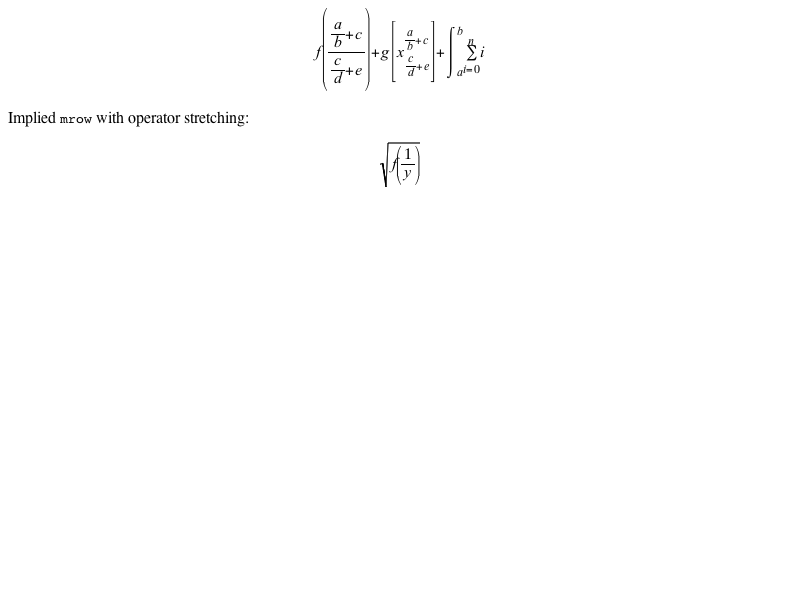
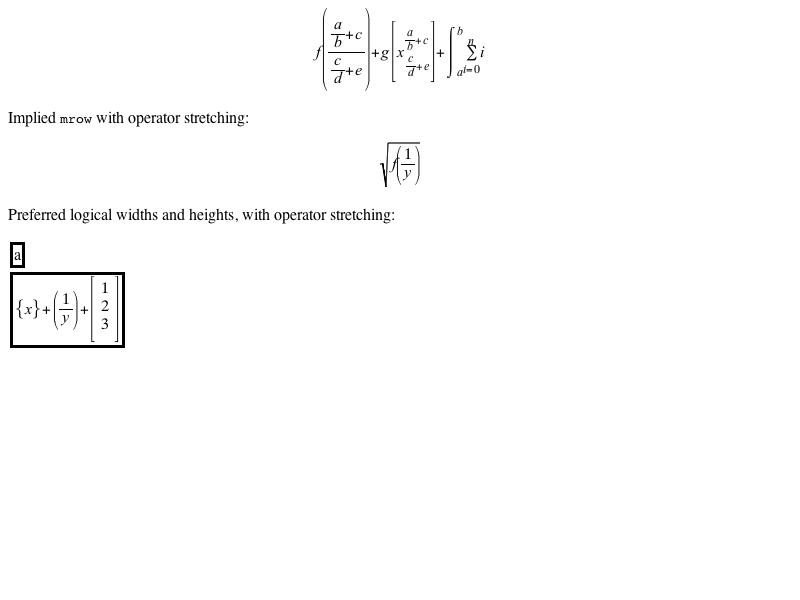
After appending MathML with jquery the table renders with overlaps https://bugs.webkit.org/show_bug.cgi?id=52444
Patch by David Barton <dbarton@mathscribe.com> on 2012-05-02
Reviewed by Julien Chaffraix.

Source/WebCore:

This patch also fixes bugs 72834 and 47781. The main problem is that correct preferred
logical widths are affected by operator stretching. Thus we add a call to
setNeedsLayoutAndPrefWidthsRecalc() after the stretching code in
RenderMathMLOperator.cpp, and change RenderMathMLBlock and RenderMathMLRow to make sure
that stretching of children is done before an <mrow>'s preferred logical widths are
computed.

Test: Added a test to mathml/presentation/mo-stretch.html

* rendering/mathml/RenderMathMLBlock.cpp:
(WebCore::RenderMathMLBlock::RenderMathMLBlock):
(WebCore::RenderMathMLBlock::computePreferredLogicalWidths):
(WebCore::RenderMathMLBlock::computeChildrenPreferredLogicalHeights):
(WebCore::RenderMathMLBlock::preferredLogicalHeightAfterSizing):
* rendering/mathml/RenderMathMLBlock.h:
(WebCore::RenderMathMLBlock::unembellishedOperator):
(WebCore::RenderMathMLBlock::isPreferredLogicalHeightDirty):
(WebCore::RenderMathMLBlock::preferredLogicalHeight):
(WebCore::RenderMathMLBlock::setPreferredLogicalHeight):
    - Add m_preferredLogicalHeight and methods to compute and return it.
    - Remove stretchToHeight() from most classes as it no longer needs to be done
      recursively. We just call it on the base of an embellished operator, and that
      calls setNeedsLayoutAndPrefWidthsRecalc() to mark itself and its container
      chain.
[…]

Changed region(s): [[0.0, 0.33, 0.5, 0.39], [0.0, 0.39, 0.1562, 0.6]]

diff --git a/mathml/presentation/mo-stretch.html b/mathml/presentation/mo-stretch.html
@@ -3,6 +3,10 @@
 
 <head>
     <title>&lt;mo&gt; Stretching Tests</title>
+    
+    <style>
+    	td		{ border: solid }
+    </style>
 </head>
 
 <body>
@@ -59,6 +63,25 @@
     <mo>)</mo>
   </msqrt>
 </math>
+
+<p>Preferred logical widths and heights, with operator stretching:</p>
+<table><td>a</table>
+<table><td id="grow-td">x</table>
+<script>
+    window.addEventListener("load", function() {
+        document.body.offsetTop;
+        
+        var e = document.createElement("div");
+        e.innerHTML = "<math display='block' style='margin-bottom: 0'> <mrow>"+
+        	"<mrow> <mo>{</mo> <mi>x</mi> <mo>}</mo> </mrow> <mo>+</mo>" +
+        	"<mfenced> <mfrac> <mn>1</mn> <mi>y</mi> </mfrac> </mfenced> <mo>+</mo>" +
+            "<mrow> <mo>[</mo> <mtable> <mtr><mtd><mn>1</mn></mtd></mtr> <mtr><mtd><mn>2</mn></mtd></mtr>" +
+            	"<mtr><mtd><mn>3</mn></mtd></mtr> </mtable> <mo>]</mo> </mrow> </mrow> </math>";
+        var td = document.getElementById("grow-td"), t = td.firstChild;
+        td.insertBefore(e.firstChild, t);
+        td.removeChild(t);
+    }, false);
+</script>
 
 </body>
 
